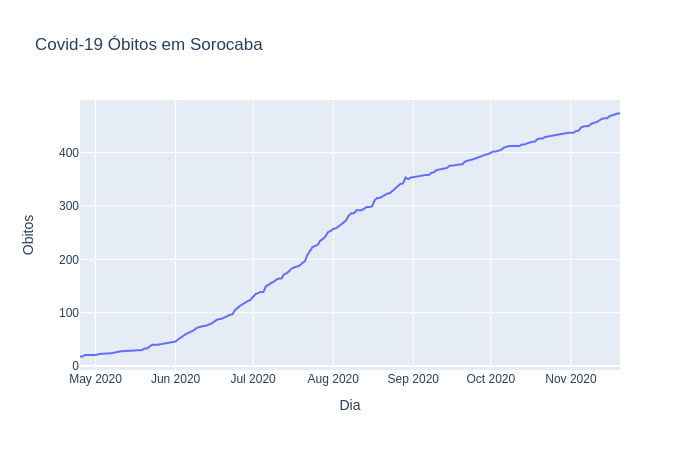
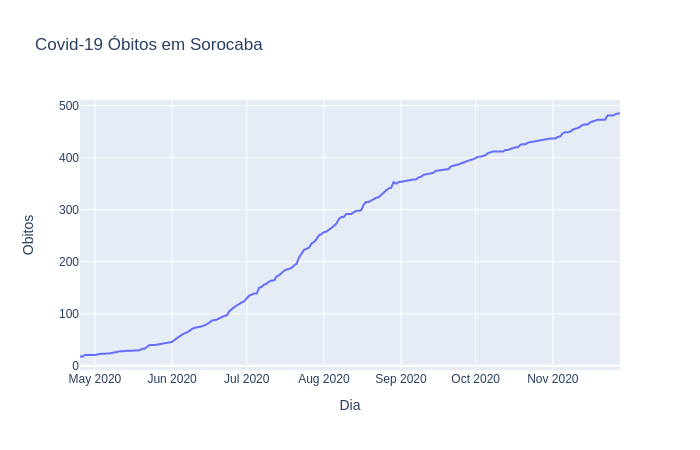
dados atualizados 28/11

diff --git a/README.md b/README.md
@@ -4,7 +4,7 @@
 Há uma planilha com os dados retirados das imagens divulgadas [AQUI](https://github.com/lucas-koiti/covid19-sorocaba/blob/master/dados/planilha_csv/dados.csv).
 
 ### Taxa de Letalidade
-2.16% 
+2.156% 
 
 ## Gráfico de casos confirmados.
 <img src= "confirmados.png">
